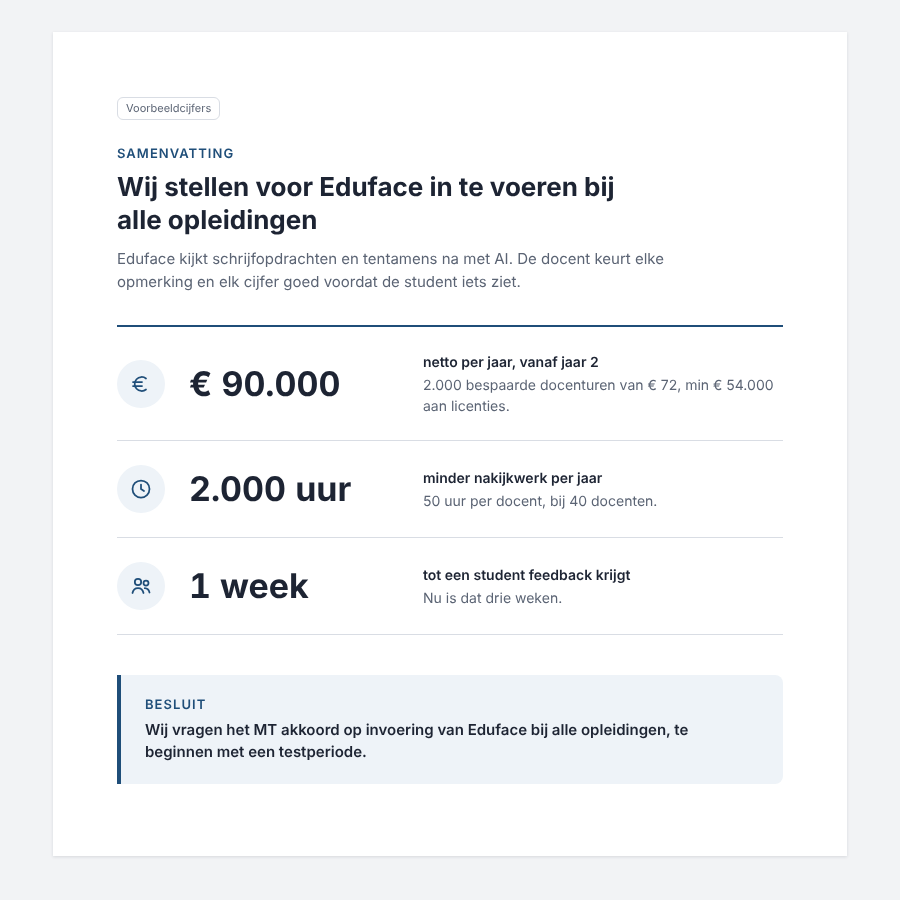
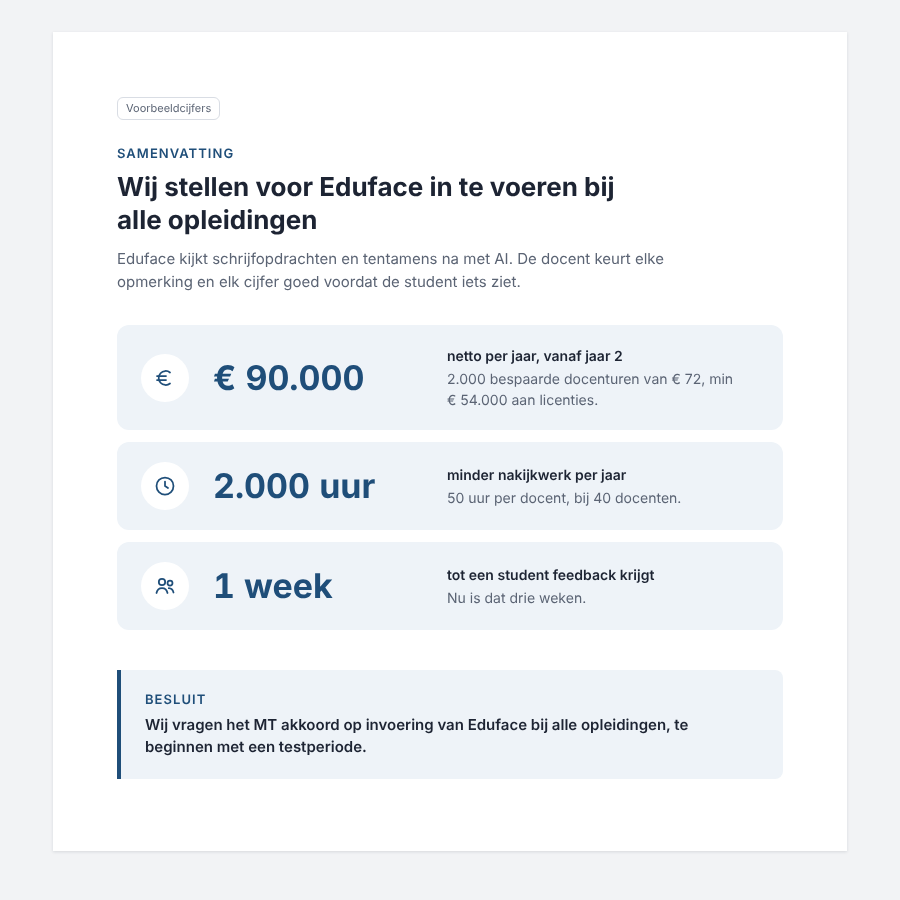
Business case: kerncijfers als cards, tabelstijl B vastgelegd, proef workflowdiagram
Claude-Session: https://claude.ai/code/session_01N8nwrWExSKGjo2t8Td3eSo

diff --git a/GTM/Knowledge/business-case/proef-diagram.html b/GTM/Knowledge/business-case/proef-diagram.html
@@ -1,0 +1,99 @@
+<!doctype html>
+<html lang="nl">
+<head>
+<meta charset="utf-8">
+<meta name="viewport" content="width=device-width, initial-scale=1">
+<title>Proef workflowdiagram</title>
+<style>
+  /* Klantkleur is een placeholder. Per klant vervangen door de hoofdkleur uit hun huisstijl. */
+  :root {
+    --klant: #1f4e79;
+    --klant-tint: #eef3f8;
+    --tekst: #1d2433;
+    --tekst-zacht: #5b6474;
+    --lijn: #d9dde4;
+    --achter: #f2f3f5;
+  }
+  * { box-sizing: border-box; }
+  body { margin: 0; background: var(--achter); color: var(--tekst);
+         font-family: Inter, "Helvetica Neue", Arial, sans-serif; font-size: 15px; line-height: 1.5; }
+  .a4 { max-width: 794px; margin: 32px auto; background: #fff; padding: 64px 56px 72px;
+        box-shadow: 0 1px 3px rgba(20,30,50,.12); }
+  .voorbeeld { display: inline-block; font-size: 11px; color: var(--tekst-zacht); border: 1px solid var(--lijn);
+               border-radius: 6px; padding: 2px 8px; margin-bottom: 24px; }
+  h2 { font-size: 13px; letter-spacing: .08em; text-transform: uppercase; color: var(--klant); margin: 0 0 8px; font-weight: 600; }
+  h1 { font-size: 26px; line-height: 1.25; margin: 0 0 12px; font-weight: 700; max-width: 32ch; }
+  .lead { margin: 0 0 32px; color: var(--tekst-zacht); max-width: 62ch; }
+
+  .stroom { margin-bottom: 32px; }
+  .stroom-kop { display: flex; justify-content: space-between; align-items: baseline; margin-bottom: 12px; }
+  .stroom-kop h3 { margin: 0; font-size: 16px; }
+  .stroom-kop .totaal { font-size: 14px; font-weight: 600; font-variant-numeric: tabular-nums; }
+  .stroom-kop .totaal span { color: var(--tekst-zacht); font-weight: 400; }
+
+  .stappen { list-style: none; margin: 0; padding: 0; display: grid;
+             grid-template-columns: repeat(4, minmax(0, 1fr)); gap: 20px; }
+  .stap { position: relative; border-radius: 12px; padding: 14px 14px 12px; display: flex; flex-direction: column; min-height: 132px; }
+  .stap + .stap::before { content: ""; position: absolute; left: -16px; top: 50%; width: 12px; height: 12px;
+                          border-top: 2px solid var(--tekst-zacht); border-right: 2px solid var(--tekst-zacht);
+                          transform: translateY(-50%) rotate(45deg); }
+  .nr { font-size: 12px; font-weight: 600; color: var(--tekst-zacht); }
+  .wat { font-size: 14px; font-weight: 600; line-height: 1.35; margin: 4px 0 auto; }
+  .tijd { margin-top: 12px; font-size: 13px; font-variant-numeric: tabular-nums; }
+
+  /* Werk van de docent: gevulde card. Automatisch: alleen een omlijning. */
+  .docent { background: var(--klant-tint); }
+  .docent .tijd { font-weight: 700; color: var(--klant); }
+  .auto { border: 1.5px dashed var(--lijn); }
+  .auto .tijd { color: var(--tekst-zacht); }
+
+  .stap img { display: block; width: 100%; height: 56px; object-fit: cover; object-position: left top;
+              border-radius: 6px; border: 1px solid var(--lijn); margin-top: 10px; }
+
+  .legenda { display: flex; gap: 24px; font-size: 13px; color: var(--tekst-zacht); margin: -8px 0 32px; }
+  .legenda i { display: inline-block; width: 16px; height: 12px; border-radius: 3px; vertical-align: -1px; margin-right: 6px; }
+  .legenda .l-docent { background: var(--klant-tint); }
+  .legenda .l-auto { border: 1.5px dashed var(--lijn); }
+
+  .citaat { border-left: 4px solid var(--klant); background: var(--klant-tint); padding: 20px 24px;
+            border-radius: 0 8px 8px 0; margin: 0; }
+  .citaat p { margin: 0 0 6px; font-size: 16px; font-style: italic; }
+  .citaat footer { font-size: 13px; color: var(--tekst-zacht); }
+</style>
+</head>
+<body>
+<div class="a4">
+  <span class="voorbeeld">Voorbeeldcijfers en voorbeeldstappen</span>
+  <h2>De huidige situatie</h2>
+  <h1>Een docent is nu 65 minuten bezig met één opdracht</h1>
+  <p class="lead">Het meeste van die tijd gaat naar lezen en feedback schrijven. Met Eduface doet het platform de eerste beoordeling en controleert de docent die.</p>
+
+  <section class="stroom">
+    <div class="stroom-kop"><h3>Nu</h3><div class="totaal">65 min per opdracht <span>· 3 weken tot feedback</span></div></div>
+    <ol class="stappen">
+      <li class="stap auto"><span class="nr">1</span><span class="wat">Student levert in via het LMS</span><span class="tijd">automatisch</span></li>
+      <li class="stap docent"><span class="nr">2</span><span class="wat">Docent leest en beoordeelt per criterium</span><span class="tijd">40 min</span></li>
+      <li class="stap docent"><span class="nr">3</span><span class="wat">Docent schrijft de feedback</span><span class="tijd">20 min</span></li>
+      <li class="stap docent"><span class="nr">4</span><span class="wat">Docent zet het cijfer in het LMS</span><span class="tijd">5 min</span></li>
+    </ol>
+  </section>
+
+  <section class="stroom">
+    <div class="stroom-kop"><h3>Met Eduface</h3><div class="totaal">15 min per opdracht <span>· 1 week tot feedback</span></div></div>
+    <ol class="stappen">
+      <li class="stap auto"><span class="nr">1</span><span class="wat">Student levert in via het LMS</span><span class="tijd">automatisch</span></li>
+      <li class="stap auto"><span class="nr">2</span><span class="wat">Eduface beoordeelt per criterium en schrijft feedback</span><img src="../../../Design/Merk/product/product_criteria.png" alt="Criteria in Eduface"><span class="tijd">automatisch</span></li>
+      <li class="stap docent"><span class="nr">3</span><span class="wat">Docent controleert en keurt goed</span><img src="../../../Design/Merk/product/product_grading.png" alt="Beoordeling in Eduface"><span class="tijd">15 min</span></li>
+      <li class="stap auto"><span class="nr">4</span><span class="wat">Cijfer gaat terug naar het LMS</span><span class="tijd">automatisch</span></li>
+    </ol>
+  </section>
+
+  <div class="legenda"><span><i class="l-docent"></i>Werk van de docent</span><span><i class="l-auto"></i>Gaat automatisch</span></div>
+
+  <blockquote class="citaat">
+    <p>"In de toetsweken kijk ik 's avonds na. Feedback schrijven is dan het eerste dat korter wordt."</p>
+    <footer>Docent, opleiding [naam]</footer>
+  </blockquote>
+</div>
+</body>
+</html>

diff --git a/GTM/Knowledge/business-case/proef-kerncijfers.html b/GTM/Knowledge/business-case/proef-kerncijfers.html
@@ -25,13 +25,13 @@
   h1 { font-size: 26px; line-height: 1.25; margin: 0 0 12px; font-weight: 700; max-width: 30ch; }
   .lead { margin: 0 0 32px; color: var(--tekst-zacht); max-width: 62ch; }
 
-  .cijfers { list-style: none; margin: 0; padding: 0; border-top: 2px solid var(--klant); }
+  .cijfers { list-style: none; margin: 0; padding: 0; display: grid; gap: 12px; }
   .cijfer { display: grid; grid-template-columns: 48px 210px minmax(0, 1fr); column-gap: 24px;
-            align-items: center; padding: 24px 0; border-bottom: 1px solid var(--lijn); }
-  .icoon { width: 48px; height: 48px; border-radius: 50%; background: var(--klant-tint);
+            align-items: center; padding: 20px 24px; background: var(--klant-tint); border-radius: 12px; }
+  .icoon { width: 48px; height: 48px; border-radius: 50%; background: #fff;
            display: grid; place-items: center; color: var(--klant); }
   .icoon svg { width: 24px; height: 24px; }
-  .getal { font-size: 34px; font-weight: 700; line-height: 1.1; white-space: nowrap; font-variant-numeric: tabular-nums; }
+  .getal { color: var(--klant); font-size: 34px; font-weight: 700; line-height: 1.1; white-space: nowrap; font-variant-numeric: tabular-nums; }
   .uitleg { margin: 0; font-size: 14px; }
   .uitleg b { font-weight: 600; }
   .uitleg span { display: block; color: var(--tekst-zacht); margin-top: 2px; }
@@ -56,8 +56,8 @@
       <div class="icoon" role="img" aria-label="Geld">
         <svg viewBox="0 0 24 24" fill="none" stroke="currentColor" stroke-width="1.75" stroke-linecap="round" stroke-linejoin="round"><path d="M17 6.5A7 7 0 1 0 17 17.5"/><path d="M4 10h9"/><path d="M4 14h9"/></svg>
       </div>
-      <div class="getal">€ 90.000</div>
-      <p class="uitleg"><b>netto per jaar, vanaf jaar 2</b><span>2.000 bespaarde docenturen van € 72, min € 54.000 aan licenties.</span></p>
+      <div class="getal">€&nbsp;90.000</div>
+      <p class="uitleg"><b>netto per jaar, vanaf jaar 2</b><span>2.000 bespaarde docenturen van €&nbsp;72, min €&nbsp;54.000 aan licenties.</span></p>
     </li>
     <li class="cijfer">
       <div class="icoon" role="img" aria-label="Tijd">

diff --git a/GTM/Knowledge/business-case/structuur.md b/GTM/Knowledge/business-case/structuur.md
@@ -33,6 +33,14 @@ _Laatst bijgewerkt: 2026-10-09._
 
 Rollen en eigenaarschap zitten niet in de business case maar in het implementatieplan.
 
+## Visuele stijl
+
+Vastgelegd 09-10-2026. Proeven staan in deze map.
+
+- **Kerncijfers:** verticaal onder elkaar, elk in een eigen card (tint van de klantkleur, radius 12). Per card: icoon (geld, tijd, mensen) in plaats van een woord, dan het getal in de klantkleur, dan de onderbouwing met de rekensom. Zie `proef-kerncijfers.html`.
+- **Tabellen:** stijl B. Kop gevuld met de klantkleur en witte tekst, groepsrijen en de totaalrij in de tint, getallen rechts uitgelijnd (ook de kop), onder de tabel een regel met de aannames. Zie richting B in `proef-tabel-kerncijfers.html`.
+- **Besluitkader:** onder de kerncijfers op pagina 1, tint met een balk in de klantkleur links.
+
 ## Toon
 
 Vastgelegd 09-10-2026.
